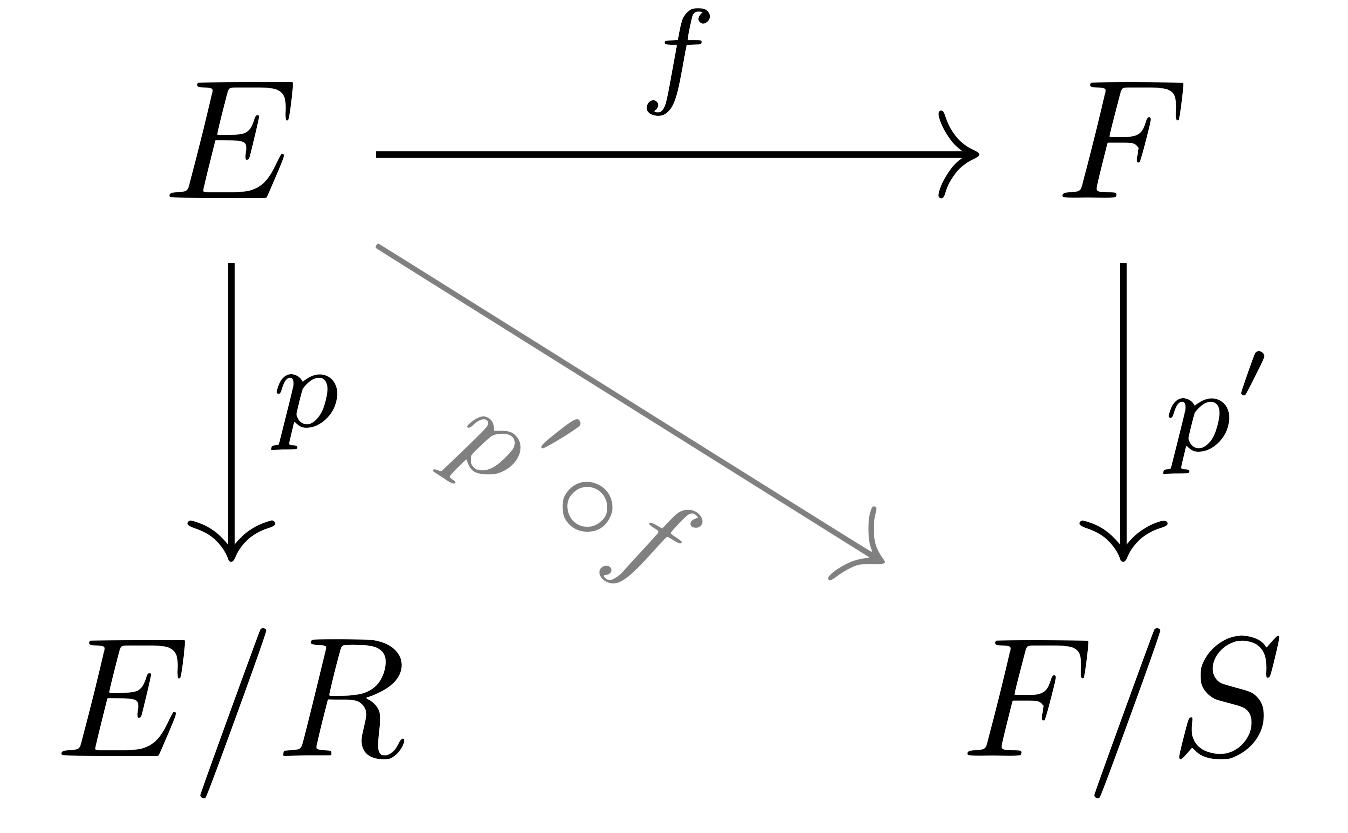
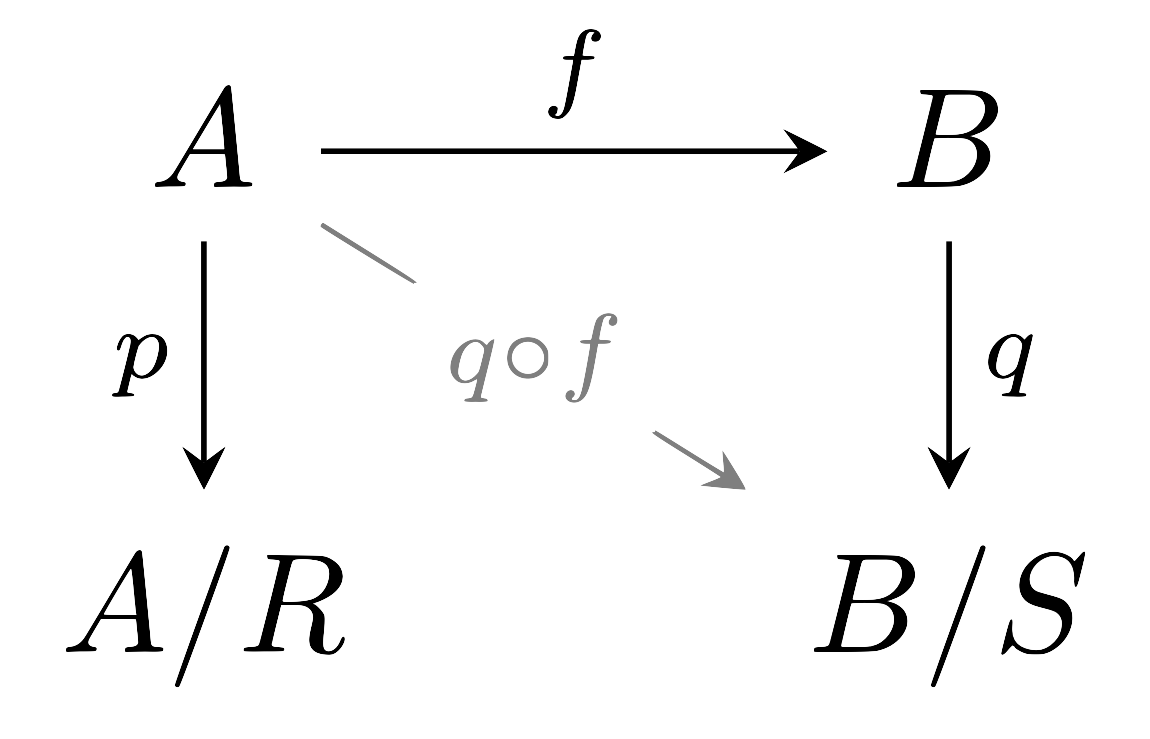
Posts (~20220721)

diff --git a/_posts/Math/Set_theory/ko/2021-08-22-Equivalence_relations.md b/_posts/Math/Set_theory/ko/2021-08-22-Equivalence_relations.md
@@ -84,7 +84,7 @@ $$(x\mathrel{R}y)\wedge(y\mathrel{R}z)\implies  x\mathrel{R}z$$
 
 위의 정의에서, $F$를 $f$의 그래프라 하자. 그럼 $x\equiv y$인 것은 <phrase>어떠한 $z$가 존재하여 $(x,z)\in F$이고 $(y, z)\in F$인 것</phrase>과 동치이다. 이는 다시 <phrase>어떠한 $z$가 존재하여 $(x, z)\in F$이고 $(z, y)\in F^{-1}$인 것</phrase>과 동치이므로, 이 동치관계의 그래프는 $F^{-1}\circ F$가 된다. 
 
-## 동치관계와 partition
+## 동치관계와 분할
 
 한편, 우리가 앞서 정의했던 분할 ([§집합의 합, 정의 4](/ko/math/set_theory/sum_of_sets#df4))은 동치관계와 아주 깊은 관계가 있다.
 
@@ -119,9 +119,10 @@ $$(x\mathrel{R}y)\wedge(y\mathrel{R}z)\implies  x\mathrel{R}z$$
 우선 $(x,y)\in G$라 하자. 그럼 $y\in G(x)$로부터 $G(y)\subset G(G(x))=G(x)$이다. 비슷하게 $G(x)\subset G(y)$이므로 $p(x)=G(x)=G(y)=p(y)$이다. 반대로 만일 $G(x)=G(y)$라면, $x\in G(x)=G(y)$이므로 $(y, x)\in G$가 되어 보조정리가 성립한다.
 </details>
 
-위의 함수 $p$를 canonical하다고 말한다. 위의 정리로부터 equivalence class들은 서로소라는 것을 알 수 있으므로, 동치관계는 집합 $A$의 분할을 유도한다. 반대로,
+위의 함수 $p$를 canonical이라 부른다. 위의 정리로부터 equivalence class들은 서로소라는 것을 알 수 있으므로, 동치관계는 집합 $A$의 분할을 유도한다. 반대로,
 
 <div class="definition" markdown="1">
+
 <ins id="pp10">**명제 10**</ins> $(A_i)\_{i\in I}$가 $A$의 분할이라 하자. 그럼 
 
 > 어떤 $i$가 존재하여 $x,y\in A_i$이다
@@ -187,11 +188,11 @@ $G$를 $R$의 그래프라 하자. 위의 정의에 따르면, 어떤 집합 $A'
 
 이번에는 canonical map $f:A\rightarrow A/R$과 그 그래프 $F$를 생각하자. [§이항관계의 그래프, 명제 14](/ko/math/set_theory/binary_relation#pp14)에 의하여 $f^{-1}(f(A'))\supseteq A'$가 성립하며, 일반적인 경우에 반대쪽 포함관계는 성립하지 않는다. 그러나 만일 $A'$가 saturated라면 반대쪽 포함관계도 성립한다. 각각의 $x\in A'$에 대하여, $f^{-1}(\left\\{f(x)\right\\})\subseteq A'$이므로
 
-$$\bigcup_{x\in A'}f^{-1}(\left\{f(x)\right\})=f^{-1}(f(A'))\subseteq A'$$
+$$f^{-1}(f(A'))=\bigcup_{x\in A'}f^{-1}(\left\{f(x)\right\})\subseteq A'$$
 
 가 성립하기 때문이다.
 
-더 일반적으로, $B$가 임의의 집합이라 하자. $f^{-1}(f(B))$는 여전히 saturated이다. 만일 $x\in f^{-1}(f(B))$라 하면, $z\in F(x)$에 대하여, 어떠한 $y\in f(B)$가 존재하여 $(y,x)\in F^{-1}$이므로 $(x, y)\in F$이고, 따라서 transitivity에 의하여 $(z,x)\in F$이면 $(z,y)\in F$이고, 따라서 $z\in f^{-1}(f(B))$이기 때문이다. 만일 $\overline{B}$가 $B$를 포함하는 saturated subset이라면, 
+더 일반적으로, $B$가 임의의 집합이라 하자. $f^{-1}(f(B))$는 여전히 saturated이다. 만일 $x\in f^{-1}(f(B))$라 하면 $z\in F(x)$에 대하여 어떠한 $y\in f(B)$가 존재하여 $(y,x)\in F^{-1}$이므로 $(x, y)\in F$이고, 따라서 transitivity에 의하여 $(z,x)\in F$이면 $(z,y)\in F$이고   $z\in f^{-1}(f(B))$이기 때문이다. 만일 $\overline{B}$가 $B$를 포함하는 saturated subset이라면, 
 
 $$\overline{B}=f^{-1}(f(\overline{B}))\supseteq f^{-1}(f(B))$$
 
@@ -201,7 +202,7 @@ $$\overline{B}=f^{-1}(f(\overline{B}))\supseteq f^{-1}(f(B))$$
 
 <div class="definition" markdown="1">
 
-<ins id="df14">**정의 14**</ins> 집합 $E$와 $E$ 위에서 정의된 equivalence relation $R$이 주어졌다고 하자. $E$를 정의역으로 갖는 함수 $f$에 대하여, $f$가 $R$과 *compatible*하다는 것은 $x$에 대한 unary relation $y=f(x)$가 $R$과 compatible하다는 것을 의미한다.
+<ins id="df14">**정의 14**</ins> 집합 $A$ 위에서 정의된 동치관계 $R$이 주어졌다고 하자. $A$를 정의역으로 갖는 함수 $f$에 대하여, $f$가 $R$과 *compatible*하다는 것은 $x$에 대한 단항관계 $y=f(x)$가 $R$과 compatible하다는 것을 의미한다.
 
 </div>
 
@@ -209,50 +210,52 @@ $$\overline{B}=f^{-1}(f(\overline{B}))\supseteq f^{-1}(f(B))$$
 
 <div class="proposition" markdown="1">
 
-<ins id="pp15">**명제 15**</ins> $R$이 집합 $E$ 위에서의 equivalence relation이고, $p:E\rightarrow E/R$이 canonical이라 하자. 그럼 $f:E\rightarrow F$가 $R$과 compatible한 것은 어떤 $h:E/R\rightarrow F$에 대하여 $f$가 $h\circ p$의 꼴로 쓰여질 수 있는 것과 동치이다.
+<ins id="pp15">**명제 15**</ins> $R$이 집합 $A$ 위에서의 동치관계이고, $p:E\rightarrow E/R$이 canonical이라 하자. 그럼 $f:A\rightarrow B$가 $R$과 compatible한 것은 어떤 $h:A/R\rightarrow B$에 대하여 $f$가 $h\circ p$의 꼴로 쓰여질 수 있는 것과 동치이다.
 
 </div>
 
 즉, 다음의 diagram이 commute한다.
 
-![induced_injection](/assets/images/Set_theory/Equivalence_relations-1.png){:width="120px"  class="invert" .align-center}
+![induced_injection](/assets/images/Set_theory/Equivalence_relations-1.png){:width="147.6px"  class="invert" .align-center}
 
-이 때 $h$는 $p$의 section $s$에 의하여 $h=f\circ s$로 유일하게 결정된다. $h$는 $f$에 의해 induce되었다고 한다. 더 정확하게 이야기하려면 다음의 diagram을 생각할 수 있다.
+이 때 $h$는 $p$의 section $s$에 의하여 $h=f\circ s$로 유일하게 결정된다. $h$는 $f$에 의해 induce되었다고 한다. 
 
-![canonical_decomposition](/assets/images/Set_theory/Equivalence_relations-2.png){:width="240px"  class="invert" .align-center}
+특별히 $R$이 $f$에 의해 정의된 동치관계([정의 5](#df5))라 하자. 다음의 diagram을 생각할 수 있다.
 
-여기서 $\tilde{f}$는 $f$의 공역 $F$를 $f(E)$로 제한하여 얻어지는 함수이고, $j$는 canonical injection, $R$은 $f$에 의해 결정되는 equivalence relation이며 $p$는 이 equivalence relation에 해당하는 canonical mapping이다. 따라서 우리는
+![canonical_decomposition](/assets/images/Set_theory/Equivalence_relations-2.png){:width="262.05px"  class="invert" .align-center}
+
+이 때 $\tilde{f}$는 $f$의 공역 $F$를 $f(A)$로 제한하여 얻어지는 함수이고, $j$는 canonical injection, 그리고 $p$는 $R$에 해당하는 canonical mapping이다. 따라서 우리는
 
 $$f=j\circ\tilde{f}=j\circ h\circ p$$
 
-를 얻는다. 만일 어떠한 $t, t'\in E/R$에 대해 $h(t)=h(t')$라면, $x\in t$, $x'\in t'$에 대하여 $f(x)=f(x')$이므로 $x\mathrel{R}x'$이고, 따라서 $t=t'$가 되어 $h$는 injection이다. 그런데 $h$의 공역은 $f$의 치역으로 제한된 상태이므로, $h$는 surjection이기도 하다. 따라서 $h$는 bijection이며, 위의 식을 $f$의 *canonical decomposition*이라 부른다.
+를 얻는다. 만일 어떠한 $t, t'\in A/R$에 대해 $h(t)=h(t')$라면, $x\in t$, $x'\in t'$에 대하여 $f(x)=f(x')$이므로 $x\mathrel{R}x'$이고, 따라서 $t=t'$가 되어 $h$는 단사함수이다. 그런데 $h$의 공역은 $f$의 치역으로 제한된 상태이므로, $h$는 전사함수이기도 하다. 따라서 $h$는 전단사이며, 위의 식을 $f$의 *canonical decomposition*이라 부른다.
 
-추가로 공역 $F$에 equivalence relation$S$가 주어졌다고 하자. 그럼 우선 다음의 diagram을 얻는다.
+추가로 공역 $B$에 동치관계 $S$가 주어졌다고 하자. 그럼 우선 다음의 diagram을 얻는다.
 
-![induced_mapping_of_equivalence](/assets/images/Set_theory/Equivalence_relations-3.png){:width="120px"  class="invert" .align-center}
+![induced_mapping_of_equivalence](/assets/images/Set_theory/Equivalence_relations-3.png){:width="172.5px"  class="invert" .align-center}
 
-그럼 $f$가 $R$과 compatible한 것은 map $p'\circ f$이 $R$과 compatible한 것이다. 이는 다시 $h:E/R\rightarrow F/S$가 존재하여 $h\circ p=p'\circ f$인 것과 동치이다. 
+만일 $q\circ f$이 $R$과 compatible하다면, $f$가 두 동치관계 $R$, $S$와 compatible하다고 한다. [명제 15](#pp15)에 의해 이는 다시 $h:A/R\rightarrow B/S$가 존재하여 $h\circ p=q\circ f$인 것과 동치이다. 
 
-반대로 우리는 공역 $F$에 정의된 equivalence relation $S$로부터 $E$ 위에 equivalence relation을 만들 수도 있다. 우선 $f:E\rightarrow F$이고 $S$가 $F$ 위에서의 equivalence relation, 그리고 $p:F\rightarrow F/S$가 canonical이라 하자. 즉 다음과 같다.
+또, 공역 $B$에 정의된 동치관계 $S$로부터 $A$ 위에 동치관계를 만들 수도 있다. 우선 $f:A\rightarrow B$이고 $S$가 $B$ 위에서의 동치관계, 그리고 $p:B\rightarrow B/S$가 canonical이라 하자. 이 상황을 diagram으로 나타내면 다음과 같다.
 
-![inverse_image_of_equivalence](/assets/images/Set_theory/Equivalence_relations-4.png){:width="120px"  class="invert" .align-center}
+![inverse_image_of_equivalence](/assets/images/Set_theory/Equivalence_relations-4.png){:width="145.5px"  class="invert" .align-center}
 
-그럼 우리는 map $p\circ f$에 의해 정의되는 equivalence relation $R$을 $E$ 위에 정의할 수 있다. 이를 $S$의 $f$에 의한 *inverse image*라 부른다.
+그럼 우리는 함수 $p\circ f$에 의해 정의되는 동치관계 $R$을 $A$ 위에 정의할 수 있다. 이를 $S$의 $f$에 의한 *inverse image*라 부른다.
 
-<ins id="df16">**정의 16**</ins>  $R$, $S$가 equivalence relation들이라 하자. $S$가 $R$보다 *finer<sub>세밀하다</sub>*하다는 것은 $x\mathrel{S}y\rightarrow x\mathrel{R}y$가 항상 성립하는 것이다.
+<ins id="df16">**정의 16**</ins>  $R$, $S$가 동치관계들이라 하자. $S$가 $R$보다 *finer<sub>세밀하다</sub>*하다는 것은 $x\mathrel{S}y\implies x\mathrel{R}y$가 항상 성립하는 것이다.
 {: .definition}
 
-만일 두 equivalence relation들이 모두 $E$ 위에서 정의된다면 그래프들이 존재하므로, 더 finer한 equivalence relation은 그래프의 측면에서 finer하기도 하다. 다음의 diagram을 생각하자.
+두 동치관계 $R,S$가 집합 $A$ 위에서 정의된 동치관계이고, $S$가 $R$보다 finer하다고 하자. 
 
-![third_iso_1](/assets/images/Set_theory/Equivalence_relations-5.png){:width="140px"  class="invert" .align-center}
+![third_iso_1](/assets/images/Set_theory/Equivalence_relations-5.png){:width="171.3px"  class="invert" .align-center}
 
-함수 $p_S$가 surjective이고 $p_S(x)=p_S(y)$이면 $p_R(x)=p_R(y)$이다. 따라서 유일한 함수 $h:E/S\rightarrow E/R$이 존재하여 $p_R=h\circ p_S$이다. 이렇게 생기는 함수 $h:E/S\rightarrow E/R$을 이용하면 $E/S$ 위에 equivalence relation을 정의할 수 있다. 우리는 이 equivalence relation을 $R$의 $S$에 의한 *quotient*라 부르고, $R/S$로 적는다. 이 상황은 canonical decomposition을 거치면 다음과 같다. 
+그럼 함수 $p_S$가 전사함수이고, $p_S(x)=p_S(y)\implies p_R(x)=p_R(y)$가 항상 성립한다. 따라서 유일한 함수 $h:A/S\rightarrow A/R$이 존재하여 $p_R=h\circ p_S$이다. ([§함수 (2), 명제 4](/ko/math/set_theory/functions_2#pp4)) 
 
-![third_iso_2](/assets/images/Set_theory/Equivalence_relations-6.png){:width="320px"  class="invert" .align-center}
+위와 같이 정의된 함수 $h$에 대하여, $h$에 의해 $A/S$ 위에 정의된 동치관계를 $R$의 $S$에 의한 *quotient*라 부르고, $R/S$로 적는다. 이 상황은 canonical decomposition을 거치면 다음과 같다. 
 
-위의 $k$는 앞선 canonical decomposition의 정의에 의하여 bijection이 된다. 즉 $(E/S)/(R/S)$는 $E/R$과의 bijection을 갖는다.
+![third_iso_2](/assets/images/Set_theory/Equivalence_relations-6.png){:width="368.25px"  class="invert" .align-center}
 
-이들 정리는 특히 대수적인 구조들을 다룰 때 중요하게 등장한다.
+위의 $k$는 앞선 canonical decomposition의 정의에 의하여 전단사함수가 된다. 
 
 ## 동치관계의 product
 마지막으로 두 equivalence relation $R$, $R'$이 주어졌다고 하자. 만일 우리가 $S$를 다음의 relation
